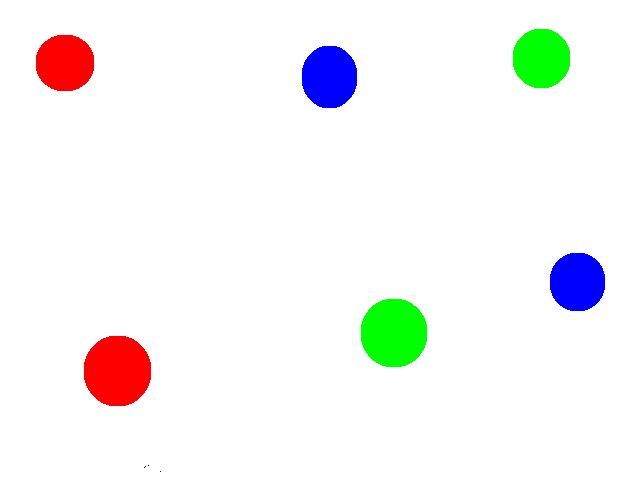
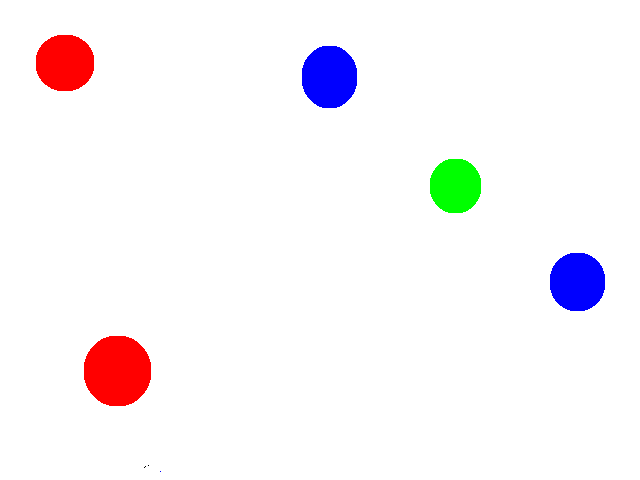
Now tracks robot_markers as the axis, and the robot itself. Default colors areblue for markers, green for robot, red for objects

Changed region(s): [[0.5625, 0.625, 0.6875, 0.7812], [0.7812, 0.0625, 0.9062, 0.1875], [0.6562, 0.3125, 0.75, 0.4688]]

diff --git a/tracker.py b/tracker.py
@@ -23,7 +23,8 @@ class BallTracker:
 
   def __init__(self, window_name="Ball Tracking",
     scale=0.5, 
-    robot_color=colors.Red, 
+    robot_color=colors.Green,
+    robot_marker_color=colors.Red, 
     track_colors=[colors.Blue], 
     radius=10, 
     num_per_color = 1,
@@ -32,7 +33,8 @@ class BallTracker:
     @brief inits default tracking parameters
 
     @param scale Webcam frame gets scaled by this much (0 to 1).
-    @param robot_color The color (from colors.py) of the robot marker
+    @param robot_color The color (from colors.py) of the robot itself
+    @param robot_marker_color The color of the axis ends of the robot
     @param track_colors List of colors (from colors.py) to be tracked. 
     @param radius The min radius circle to be detected
     @param num_per_color The number of objects to detect for one color.
@@ -40,7 +42,7 @@ class BallTracker:
     """
     
     # if robot marker and track color are the same, won't be able to tell apart
-    if robot_color in track_colors:
+    if robot_marker_color in track_colors:
       print 'Unable to discern robot marker from some objects (same color). Ensure robot marker color is different from colors to be tracked'
       exit()
 
@@ -53,6 +55,7 @@ class BallTracker:
     self.num_per_color = num_per_color
 
     self.robot_color = robot_color
+    self.robot_marker_color = robot_marker_color
     self.track_colors = track_colors
 
     self.radius = radius
@@ -146,9 +149,26 @@ class BallTracker:
     return circle_list
 
 
-  def find_robot(self, img_hsv, robot_color):
+  def find_robot(self, img_hsv):
+    """
+    @brief Finds the circle representing the robot itself
+
+    @param img_hsv The HSV image to find the robot in
+
+    @return A single circle object representing the robot position
+    """
+    if self.robot_color is None:
+      return []
+
+    robot_pos = self.find_circles(img_hsv, colors=[self.robot_color], 
+      num_per_color=1)
+
+    robot_pos[0].color = colors.Magenta # display robot circle as cyan
+    return robot_pos [0]   
+
+  def find_robot_markers(self, img_hsv):
     """ 
-    @brief Finds the robot circle of the specified color
+    @brief Finds the robot axis markers of the specified color
 
     Only finds two objects. Robot has 1 axis of motion, so distinct circles 
     represent the axis. Expects 2 objects
@@ -158,10 +178,11 @@ class BallTracker:
 
     @return robot_pos A list of the two circle objects for a robot
     """
-    if robot_color is None:
+    if self.robot_marker_color is None:
       return []
 
-    robot_pos = self.find_circles(img_hsv, colors=[robot_color], 
+    # Find two circles for the axis markers
+    robot_pos = self.find_circles(img_hsv, colors=[self.robot_marker_color], 
       num_per_color=2)
     if len(robot_pos) < 2:
       return []
@@ -170,4 +191,17 @@ class BallTracker:
       robot_pos[1].color = colors.Red
       return robot_pos
 
+  def find_robot_system(self, img_hsv):
+    """
+    @brief Finds the robot and the robot markers
 
+    Wrapper for find_robot_markers and find_robot
+
+    @param img_hsv The HSV image to find robot in
+
+    @return robot The Circle object representing the robot
+    @return robot_axis 2-elem list of Circle objects for the robot axis markers
+    """
+    robot = self.find_robot(img_hsv.copy())
+    robot_axis = self.find_robot_markers(img_hsv.copy())
+    return robot, robot_axis

diff --git a/goalie.py b/goalie.py
@@ -65,7 +65,7 @@ def stream(tracker, camera=0):
     # robot_ops is 2-elem list of Circle objects for robot markers
     object_list = tracker.find_circles(img_hsv.copy(), tracker.track_colors,
       tracker.num_per_color)
-    robot_markers = tracker.find_robot(img_hsv.copy(), tracker.robot_color)
+    robot, robot_markers = tracker.find_robot_system(img_hsv)
 
     # Get the line/distances between the robot markers
     # Some elems of line may be None, corresponding distance of -1
@@ -79,8 +79,9 @@ def stream(tracker, camera=0):
 
     ######## DRAW ANNOTATIONS ON FRAME ########
     frame = gfx.draw_circles(frame, object_list)
+    frame = gfx.draw_robot(frame, robot)
     frame = gfx.draw_robot_markers(frame, robot_markers)
-    frame = gfx.draw_robot_axis(frame, line=robot_axis)
+    frame = gfx.draw_robot_axis(img=frame, line=robot_axis)
     frame = gfx.draw_lines(frame=frame, line_list=lines)
 
     ######## FPS COUNTER ########
@@ -115,11 +116,13 @@ def main():
   """ 
   @brief Initializes the tracker object and runs goalie script
   """    
-  robot_color = colors.Blue
-  track_colors = [colors.Red, colors.Green]
+  robot_marker_color = colors.Blue
+  robot_color = colors.Green
+  track_colors = [colors.Red]
   tracker = bt.BallTracker(
     window_name="Robot Goalie Object Tracking Display",
-    robot_color=robot_color, 
+    robot_color=robot_color,
+    robot_marker_color=robot_marker_color, 
     track_colors=track_colors, 
     radius=13,
     num_per_color = 2) 

diff --git a/graphics.py b/graphics.py
@@ -77,6 +77,20 @@ def draw_circles(img, circle_list):
   return img
 
 
+def draw_robot(img, robot):
+  """
+  @brief draws a circle around the robot
+
+  @param img The image to draw the robot on
+  @param robot The circle object representing the robot
+
+  @return img The annotated image
+  """
+  if robot is None:
+    return img
+  img = draw_circle(img=img, c=robot)
+  return img
+
 def draw_robot_markers(img, robot_pos):
   """
   @brief draws a circle around the robot markers
